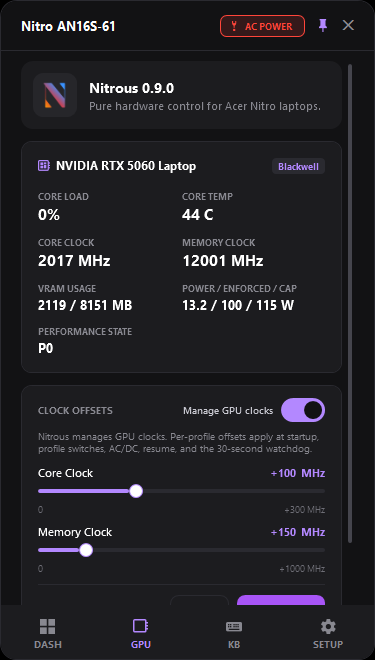
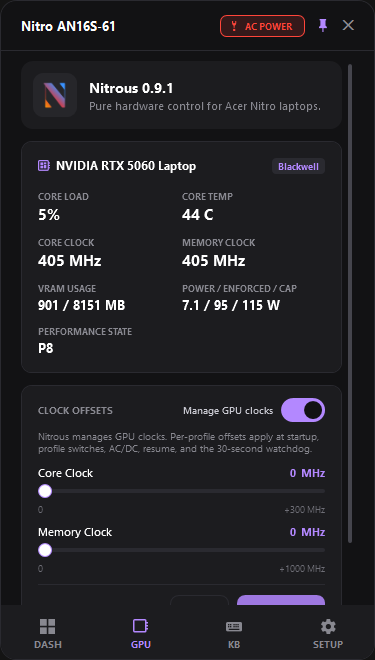
feat(ui): make the hotkey pills read as keys, and refresh the screenshots
The two binding boxes on the KB page were default-height text fields, so "Ctrl + Home" looked like
editable text rather than a key. They are 32px tall with a 12px semibold label and an 8px radius
now, which is the same height the combo boxes and action buttons already use.

All four screenshots are reshot for 0.9.1. They were from 2026-11-01: before the theme work, before
the APPEARANCE card, and still showing "Nitrous 0.9.0" in the header. Captured through UI Automation
rather than synthetic clicks, because the foreground lock refuses those and leaves you shooting the
page you were already on.

The site also declared width="383" height="705" on every shot while the files are 375x660. Harmless
in practice since .app-frame img forces height:auto, but the reserving box was the wrong aspect
ratio. The dashboard and keyboard alt text described values and features that are no longer in the
images, so those moved too.

diff --git a/docs/index.html b/docs/index.html
@@ -292,7 +292,7 @@
         <div class="hero-visual">
           <div class="visual-ring" aria-hidden="true"></div>
           <div class="app-frame">
-            <img src="assets/dashboard.png" width="383" height="705" alt="The Nitrous dashboard showing CPU and GPU temperatures, fan speeds, power profile, refresh rate and fan mode for an Acer Nitro AN16S-61" fetchpriority="high" decoding="async">
+            <img src="assets/dashboard.png" width="375" height="660" alt="The Nitrous dashboard showing CPU and GPU temperatures, fan speeds, power profile, refresh rate and fan mode for an Acer Nitro AN16S-61" fetchpriority="high" decoding="async">
           </div>
           <div class="float-chip chip-ec">
             <span class="pulse-dot" aria-hidden="true"></span>
@@ -580,7 +580,7 @@
             <div class="shot-panel" id="panel-dashboard" role="tabpanel" aria-labelledby="tab-dashboard">
               <figure class="shot">
                 <div class="app-frame app-frame-sm">
-                  <img src="assets/dashboard.png" width="383" height="705" alt="Nitrous dashboard: CPU 45 °C at 1672 RPM, GPU 43 °C at 1656 RPM, Performance power mode, 144 Hz refresh and Auto fans" loading="lazy" decoding="async">
+                  <img src="assets/dashboard.png" width="375" height="660" alt="Nitrous dashboard: CPU 49 °C at 1767 RPM, GPU 45 °C at 1757 RPM, Performance power mode, 144 Hz refresh and Auto fans" loading="lazy" decoding="async">
                 </div>
                 <figcaption>Dashboard · AN16S-61</figcaption>
               </figure>
@@ -588,7 +588,7 @@
             <div class="shot-panel" id="panel-gpu" role="tabpanel" aria-labelledby="tab-gpu" hidden>
               <figure class="shot">
                 <div class="app-frame app-frame-sm">
-                  <img src="assets/gpu.png" width="383" height="705" alt="Nitrous GPU tab: RTX 5060 Laptop with core and memory clocks, VRAM usage, power draw and clock offset sliders" loading="lazy" decoding="async">
+                  <img src="assets/gpu.png" width="375" height="660" alt="Nitrous GPU tab: RTX 5060 Laptop with core and memory clocks, VRAM usage, power draw and clock offset sliders" loading="lazy" decoding="async">
                 </div>
                 <figcaption>GPU · RTX 5060 Laptop</figcaption>
               </figure>
@@ -596,7 +596,7 @@
             <div class="shot-panel" id="panel-keyboard" role="tabpanel" aria-labelledby="tab-keyboard" hidden>
               <figure class="shot">
                 <div class="app-frame app-frame-sm">
-                  <img src="assets/keyboard.png" width="383" height="705" alt="Nitrous keyboard tab: hotkey bindings, four RGB lighting zones, wave effect, brightness and auto-off timer" loading="lazy" decoding="async">
+                  <img src="assets/keyboard.png" width="375" height="660" alt="Nitrous keyboard tab: hotkey bindings including Ctrl + Home, Sticky Keys, four RGB lighting zones, effect, brightness and auto-off timer" loading="lazy" decoding="async">
                 </div>
                 <figcaption>Keyboard · four-zone RGB</figcaption>
               </figure>
@@ -604,7 +604,7 @@
             <div class="shot-panel" id="panel-settings" role="tabpanel" aria-labelledby="tab-settings" hidden>
               <figure class="shot">
                 <div class="app-frame app-frame-sm">
-                  <img src="assets/settings.png" width="383" height="705" alt="Nitrous setup tab with CPU power limits, per-AC-and-battery boost modes, an 80% battery charge limit, USB charging while off and auto-switch power" loading="lazy" decoding="async">
+                  <img src="assets/settings.png" width="375" height="660" alt="Nitrous setup tab with CPU power limits, per-AC-and-battery boost modes, an 80% battery charge limit, USB charging while off and auto-switch power" loading="lazy" decoding="async">
                 </div>
                 <figcaption>Setup · power and battery</figcaption>
               </figure>

diff --git a/app/Ui/NitrousDashboard.xaml b/app/Ui/NitrousDashboard.xaml
@@ -392,13 +392,16 @@
             <Setter Property="Cursor" Value="Hand"/>
             <Setter Property="TextAlignment" Value="Center"/>
             <Setter Property="VerticalContentAlignment" Value="Center"/>
+            <Setter Property="Height" Value="32"/>
+            <Setter Property="FontSize" Value="12"/>
+            <Setter Property="FontWeight" Value="SemiBold"/>
             <Setter Property="Template">
                 <Setter.Value>
                     <ControlTemplate TargetType="TextBox">
                         <Border Background="{TemplateBinding Background}"
                                 BorderBrush="{TemplateBinding BorderBrush}"
                                 BorderThickness="{TemplateBinding BorderThickness}"
-                                CornerRadius="6" Padding="0">
+                                CornerRadius="8" Padding="0">
                             <ScrollViewer x:Name="PART_ContentHost" Margin="0"/>
                         </Border>
                         <ControlTemplate.Triggers>

diff --git a/CHANGELOG.md b/CHANGELOG.md
@@ -26,6 +26,8 @@ published from the matching section of this file.
   hotkey you cleared yourself stays cleared.
 - Cycling the power profile is still unbound by default: changing a machine's power mode from a key
   press you forgot you set is a worse surprise than having no binding.
+- The two binding boxes on the KB page are taller, so the shortcut reads as a key rather than as a
+  text field that happens to contain one.
 
 ## 0.9.0 - 2026-11-01
 
